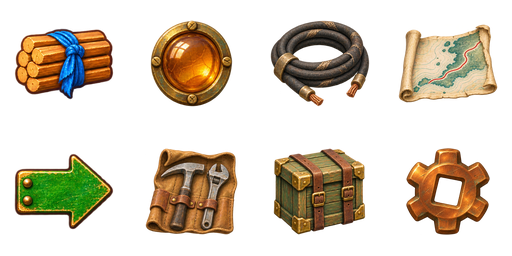
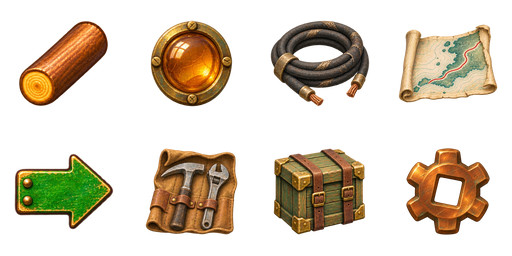
Award Happiness for decorating and simplify Relic Rush chips

Changed region(s): [[0.0312, 0.0625, 0.2188, 0.4375]]

diff --git a/tools/relic_quest_art.py b/tools/relic_quest_art.py
@@ -20,12 +20,15 @@ CROPS = [
 ]
 
 
-def sprites(rewards):
+def sprites(rewards, shared):
     source = Image.open(SOURCE)
     if source.mode != 'RGBA' or source.size != (1774, 887):
         raise ValueError('Expected the authored 1774×887 RGBA source')
     for key, crop in zip(KEYS, CROPS):
-        if key in rewards:
+        if key in shared:
+            with Image.open(ROOT / shared[key]) as artwork:
+                sprite = artwork.copy()
+        elif key in rewards:
             reward = rewards[key]
             with Image.open(ROOT / reward['source']) as source_atlas:
                 sprite = source_atlas.crop(reward['crop'])
@@ -39,17 +42,19 @@ def sprites(rewards):
                            min(sprite.width, right + 4), min(sprite.height, bottom + 4)))
 
 
-def atlas(rewards):
+def atlas(rewards, shared):
     out = Image.new('RGBA', (512, 256))
-    for index, sprite in enumerate(sprites(rewards)):
+    for index, sprite in enumerate(sprites(rewards, shared)):
         sprite.thumbnail((100, 87), Image.Resampling.LANCZOS)
         out.paste(sprite, (index % 4 * 128 + (128 - sprite.width) // 2,
                            index // 4 * 128 + (128 - sprite.height) // 2))
     return out
 
 
-def finds(rewards):
-    for key, sprite in zip(KEYS, sprites(rewards)):
+def finds(rewards, shared):
+    for key, sprite in zip(KEYS, sprites(rewards, shared)):
+        if key in shared:
+            continue
         sprite.thumbnail((FIND_PAINT, FIND_PAINT), Image.Resampling.LANCZOS)
         out = Image.new('RGBA', (FIND_SIZE, FIND_SIZE))
         out.paste(sprite, ((FIND_SIZE - sprite.width) // 2, (FIND_SIZE - sprite.height) // 2))
@@ -81,7 +86,8 @@ def main():
     manifest = json.loads((ROOT / 'art/board-states/manifest.json').read_text())
     quest = manifest['quest_objects']
     rewards = {'gear': quest['gear_reward'], **quest['reward_sources']}
-    outputs = [(OUTPUT, atlas(rewards)), *finds(rewards)]
+    shared = quest['shared_rewards']
+    outputs = [(OUTPUT, atlas(rewards, shared)), *finds(rewards, shared)]
     for reward in quest['separate_rewards'].values():
         outputs.extend(register_sprites(reward['source'], [reward], reward['canvas'], reward['paint_size']))
     pieces = quest['story_pieces']

diff --git a/games/relic-rush/tools/check_art_catalogue.py b/games/relic-rush/tools/check_art_catalogue.py
@@ -16,10 +16,13 @@ for field, key in [("tools", "tools"), ("states", "tool_states")]:
 actual = sorted(str(p.relative_to(ROOT)) for p in (ROOT / "data").rglob("*") if p.is_file())
 assert actual == manifest["runtime_inventory"], "Runtime inventory changed: update manifest AND asset catalogue"
 resources = manifest["resource_pieces"]
+new_pieces = resources["timber_emerald"]
 declaration = re.search(r"A\.resource_pieces = \{([^}]+)\}", art).group(1)
-assert re.findall(r'"([^"]+)"', declaration) == list(resources["slots"])
-assert all((ROOT / resources[key]).is_file() for key in ("source", "prompt"))
-for name in resources["slots"]:
+pieces = [*resources["slots"], *new_pieces["slots"]]
+assert re.findall(r'"([^"]+)"', declaration) == pieces
+for atlas in (resources, new_pieces):
+    assert all((ROOT / atlas[key]).is_file() for key in ("source", "prompt"))
+for name in pieces:
     path = f"data/resource-pieces/{name}.png"
     assert path in actual and f"`{name}`" in doc
 for name, unlock in manifest["resource_unlocks"].items():
@@ -29,7 +32,7 @@ declaration = re.search(r"A\.resource_upgrades = \{([^}]+)\}", art).group(1)
 upgrades = {quoted or bare: "data/" + path for quoted, bare, path in
             re.findall(r'(?:\["([^"]+)"\]|(\w+))\s*=\s*"([^"]+)"', declaration)}
 assert upgrades == {name: item["runtime"] for name, item in manifest["resource_unlocks"].items()
-                    if name not in resources["slots"]}, "Runtime upgrades need catalogue coverage"
+                    if name not in pieces}, "Runtime upgrades need catalogue coverage"
 assert set(manifest["tool_unlocks"]) <= set(manifest["tools"])
 match3 = (ROOT.parent.parent / "engine/match3.lua").read_text()
 special_line = re.search(r"M\.NORMAL[^\n]+", match3).group()
@@ -170,6 +173,8 @@ declaration = re.search(r"A\.quest_objects = \{([^}]+)\}", art).group(1)
 assert re.findall(r'"([^"]+)"', declaration) == quest["slots"]
 for key in quest["slots"]:
     assert "`" + key + "`" in doc
+    path = quest["shared_rewards"].get(key, f"data/finds/{key}.png")
+    assert path in actual
 for key in ["source", "prompt", "registration"]:
     assert (ROOT / quest[key]).is_file()
 assert all((ROOT / quest["gear_reward"][key]).is_file() for key in ("source", "prompt"))

diff --git a/games/relic-rush/tools/prepare_resource_pieces.py b/games/relic-rush/tools/prepare_resource_pieces.py
@@ -9,16 +9,14 @@ ROOT = Path(__file__).resolve().parents[1]
 SPEC = json.loads((ROOT / 'art/board-states/manifest.json').read_text())['resource_pieces']
 
 
-def main():
-    parser = argparse.ArgumentParser(description=__doc__)
-    parser.add_argument('--check', action='store_true')
-    args = parser.parse_args()
-    atlas = Image.open(ROOT / SPEC['source'])
+def register(spec, check):
+    atlas = Image.open(ROOT / spec['source'])
     assert atlas.mode == 'RGBA'
-    cols, rows = SPEC['grid']
+    cols, rows = spec['grid']
     width, height = atlas.size
-    size, extent, pad = (SPEC[key] for key in ('size', 'extent', 'padding'))
-    for name, slot in SPEC['slots'].items():
+    pad = SPEC['padding']
+    for name, slot in spec['slots'].items():
+        size, extent = spec.get('resize', {}).get(name, (SPEC['size'], SPEC['extent']))
         row, col = divmod(slot - 1, cols)
         tile = atlas.crop((col*width//cols, row*height//rows, (col+1)*width//cols, (row+1)*height//rows))
         transparent, opaque = tile.getchannel('A').getextrema()
@@ -30,11 +28,19 @@ def main():
         canvas = Image.new('RGBA', (size, size))
         canvas.paste(sprite, ((size-sprite.width)//2, (size-sprite.height)//2))
         target = ROOT / 'data' / 'resource-pieces' / f'{name}.png'
-        if args.check:
+        if check:
             assert Image.open(target).tobytes() == canvas.tobytes(), f'Outdated sprite: {target.name}'
         else:
             target.parent.mkdir(parents=True, exist_ok=True)
             canvas.save(target, optimize=True)
+
+
+def main():
+    parser = argparse.ArgumentParser(description=__doc__)
+    parser.add_argument('--check', action='store_true')
+    args = parser.parse_args()
+    for spec in (SPEC, SPEC['timber_emerald']):
+        register(spec, args.check)
 
 
 if __name__ == '__main__':

diff --git a/games/relic-rush/docs/asset-catalogue.md b/games/relic-rush/docs/asset-catalogue.md
@@ -35,8 +35,12 @@ Built-in ImageGen painted the [3 × 3 source atlas](../art/board-refresh/source.
 with seven expedition pieces and both cell faces. The [prompt](../art/board-refresh/prompt.txt)
 and [hex layout](../art/board-refresh/hex-template.png) record the generation inputs.
 The [manifest](../art/board-states/manifest.json) records the slot order, crop and
-registration. Each resource is trimmed with a four-pixel margin, fit inside 114 px
-and centred on a transparent 128 px square. Runtime sprites live in
+registration. Resources are trimmed with a four-pixel margin and centred on a
+transparent square. The [timber and emerald atlas](../art/resource-pieces/timber-emerald.png)
+was edited together in built-in ImageGen. The [edit prompt](../art/resource-pieces/timber-emerald.prompt.txt)
+records both slots. The emerald fits inside 114 px on a 128 px canvas. Timber
+fits inside 285 px on a 320 px canvas so the board, wallet and reward can use
+the same texture. Runtime sprites live in
 `data/resource-pieces/`. Selected, hinted and falling pieces reuse the same
 authored sprite with existing motion and separate indicators. Specials use
 their own authored art. The original scenario sheet is still the source of
@@ -46,8 +50,8 @@ the other story pieces below, alongside the trail arrow from the outlined atlas.
 | --- | --- | --- |
 | `coin` | Round gold coin engraved with an eight-ray sun, 4 Gold | Gold |
 | `berries` | Red berries, 1 Provisions | Provisions |
-| `plantains` | Green plantains, 1 Provisions | Board only |
-| `timber` | Blue-tied timber, 2 Supplies | Supplies |
+| `emerald` | Square-cut green gem, 1 Provisions | Board only |
+| `timber` | One unwrapped log, 2 Supplies | Supplies and the Camp Timber award |
 | `stone` | Pale violet-grey quarry stone, 3 Supplies | Board only |
 | `water` | Teal water bucket, 3 Provisions. Replaces timber from board 5 after the Well is restored. | Board and guide |
 | `rations` | Orange ration jar, 4 Provisions in the Market slot from board 10 | Board and guide |
@@ -119,10 +123,10 @@ the weathered bronze reward. The new board gear uses the same open square bore. 
 [prompt](../art/quest-objects/shutter-gear-states.prompt.txt) and manifest
 record the source and crops.
 
-Run `python3 tools/relic_quest_art.py` to register the eight quest props
-in `data/quest-objects.png` for the scenario index and in individual
-`data/finds/<slot>.png` files for the item cards. Card props fit within
-256 px on a 320×320 canvas. Board 8 uses the separately registered `broken-cable`
+Run `python3 tools/relic_quest_art.py` after the resource registration to build
+the scenario index in `data/quest-objects.png` and the item card props in
+`data/finds/`. Camp Timber uses `data/resource-pieces/timber.png` directly.
+The other card props fit within 256 px on a 320×320 canvas. Board 8 uses the separately registered `broken-cable`
 card. The [broken cable sheet](../art/quest-objects/broken-cable-states.png) and
 [prompt](../art/quest-objects/broken-cable-states.prompt.txt) record that reward.
 On the new expedition sheet, the intact relay cable is coiled with two plugs.
@@ -143,9 +147,9 @@ sprites. The first clear recovers the story item.
 | Purple | 3, 8 | Coiled relay cable, snapped cable |
 | Orange | 10 | Bronze shutter gear |
 
-Board 1 uses the ordinary blue-tied timber chip. Most story sprites come
+Board 1 uses the ordinary timber chip. Most story sprites come
 from the [expedition atlas](../art/resource-pieces/scenario-atlas.png). The
-trail arrow chip plus the marker and timber recovery cards use the
+trail arrow chip and marker recovery card use the
 [outlined source sheet](../art/resource-pieces/outlined-atlas.png).
 The manifest records each crop, the boards it appears on and its colour slot.
 Run `python3 tools/relic_quest_art.py` to register the individual

diff --git a/games/relic-rush/README.md b/games/relic-rush/README.md
@@ -89,7 +89,7 @@ identifiers `com.corepunch.relicrush.stars` and `com.corepunch.relicrush.level_0
 shows sample rivals for captures; `--dialog leaderboard` and `--victory --dialog level-leaderboard`
 open the dialogs.
 
-Board 1 uses five regular kinds, including blue-tied timber that earns Supplies.
+Board 1 uses five regular kinds, including the timber log that earns Supplies.
 Boards 2–10 and 13 show a story piece in place of one matching colour.
 Boards 2, 5, 8, 10 and 13 use four regular kinds plus the story piece. Boards
 3, 4, 6, 7 and 9 use five regular kinds plus the story piece.
@@ -169,10 +169,11 @@ In Chapter 1, complete each board’s match-3 goals to advance the quest. In the
 first-clear dialogue, the crew finds timber for the camp, the lamp lens, the tide
 chart and other objects that take them towards the quay.
 
-The island shows the active chapter, quest, next task and decoration progress. First clears
-award earned resources and Discovery Stars, and unlock scheduled restorations. Each confirmed
-wonder adds four decoration points. Other purchases add one. Required upgrades meet the
-thresholds for the next quests. Moving a building leaves its points intact.
+The island shows the active chapter, quest, next task and Happiness. Each confirmed
+wonder adds four Happiness and each optional building or decoration adds one.
+Optional placements also add one Gold to every won expedition, up to ten Gold.
+The shop previews the Happiness gain and the results show the Gold bonus.
+Required restorations cover quest thresholds. Moving a building preserves its Happiness.
 
 First-clear dialogue leads into Results. Board 30 reveals the signal plate at the cleared site, then shows Ines answering from the safe landing with the three flashes first seen on board 3. The tide-room choice follows Claim, and each
 wonder has a separate scene after confirmed placement. Replays bank matched resources.
@@ -200,8 +201,8 @@ On a 390 × 844 iPhone (safe-area insets 47 top, 34 bottom) the island and the j
 5. Confirm construction, pan across the growing settlement and open neighboring land when eligible.
 6. Read the discovery, then set out again. Thirty stages support ten restored buildings; level 30 delivers the final hook.
 
-Coins start at 4 Gold each. Red berries and green plantains pay 1 Provisions.
-Blue-tied timber and dressed stone pay 2 and 3 Supplies. Each confirmed
+Coins start at 4 Gold each. Red berries and emeralds pay 1 Provisions.
+Timber and dressed stone pay 2 and 3 Supplies. Each confirmed
 restoration unlocks a higher-yield chip or a tool on eligible expeditions.
 Authored story pieces keep their slots. The result shows what the next
 restoration unlocks or what is still needed to afford it. Replays earn

diff --git a/games/relic-rush/docs/story.md b/games/relic-rush/docs/story.md
@@ -1,6 +1,6 @@
 # Relic Rush: A Light Below
 
-**Status:** Fresh campaign plan and playable first chapter. Chapters 2–3 have provisional bridge dialogue so existing level slots remain coherent; they need a full dialogue pass and cold read. The town tracks quests and decoration points. Chapter 1 uses the existing character portraits and island views.
+**Status:** Fresh campaign plan and playable first chapter. Chapters 2–3 have provisional bridge dialogue so existing level slots remain coherent; they need a full dialogue pass and cold read. The town tracks quests and Happiness. Chapter 1 uses the existing character portraits and island views.
 
 **Play fantasy:** Rebuild an expedition base and follow a light answering from beneath the island. The feeling is curious, warm-hearted pulp adventure: danger gives friends a reason to act for one another.
 
@@ -71,7 +71,7 @@ The wrong theory is Elena's automatic reflection at 3. The changed rhythm breaks
 
 ## Delivery and choices
 
-Board 1 uses regular blue-tied timber, which earns Supplies. Boards 2–10 and 13 show a story piece in place of one resource kind. The first clear awards the corresponding quest object. The characters then talk about the find in the first-clear exchange. The tide-room reveal plays after Claim and leads into a choice of who answers the signal. Confirmed placements play their own scene. Replays bank matched resources and the capped move bonus. Clearing all blue plaques opens the site for the first-clear scene. On reload, the next unread scene or selected reply resumes, while completed boards and placed buildings stay credited. Older saves receive a recap at their current progress.
+Board 1 uses the regular timber log, which earns Supplies. Boards 2–10 and 13 show a story piece in place of one resource kind. The first clear awards the corresponding quest object. The characters then talk about the find in the first-clear exchange. The tide-room reveal plays after Claim and leads into a choice of who answers the signal. Confirmed placements play their own scene. Replays bank matched resources and the capped move bonus. Clearing all blue plaques opens the site for the first-clear scene. On reload, the next unread scene or selected reply resumes, while completed boards and placed buildings stay credited. Older saves receive a recap at their current progress.
 
 ## Chains and blue plaques
 

diff --git a/games/relic-rush/docs/resource-expedition.md b/games/relic-rush/docs/resource-expedition.md
@@ -67,15 +67,15 @@ visible cost.
 | --- | --- | ---: |
 | Gold sun coin | Gold | 4 |
 | Red berries | Provisions | 1 |
-| Green plantains | Provisions | 1 |
-| Blue-wrapped timber | Supplies | 2 |
+| Emerald | Provisions | 1 |
+| Timber log | Supplies | 2 |
 | Purple dressed stone | Supplies | 3 |
 
 Buy or restore a building using the family totals. Timber and stone are
-separate match kinds within Supplies, just as berries and plantains are
+separate match kinds within Supplies, just as berries and emeralds are
 separate kinds within Provisions. Each piece needs a recognizable shape at phone
-size. The shared town and board wallet uses the sun coin, berries and blue-tied
-timber. Pending earnings are visible on the board and are banked on a win.
+size. The shared town and board wallet uses the sun coin, berries and timber.
+Pending earnings are visible on the board and are banked on a win.
 
 Five types is the normal palette. A 4+1 recovery has four regular kinds and a
 story kind in the fifth slot. A 5+1 recovery has six total kinds and should
@@ -134,6 +134,10 @@ When a restoration costs more than is in the wallet, replay a cleared board
 with the missing resource and bank the earnings. Optional purchases reserve
 the price of any earned restoration. Confirmed placement debits the price
 once and Cancel returns the preview. Stars remain access requirements.
+Confirmed restorations add four Happiness. Each confirmed optional building
+or decoration adds one Happiness and earns one bonus Gold per win, capped at
+ten Gold. Moving items preserves the score and bonus. Both derive from saved
+placements.
 
 A save version identifies the Provisions and Supplies slots. Existing Gold,
 stars, placements, lives, unlocks, claimed levels and story checkpoints are

diff --git a/games/relic-rush/docs/board-progression.md b/games/relic-rush/docs/board-progression.md
@@ -8,7 +8,7 @@ it is out of the way. Boards 2–10 and 13 show a story piece in one colour slot
 
 | Boards | Palette |
 | --- | --- |
-| 1 | Five regular kinds, including blue-tied timber |
+| 1 | Five regular kinds, including emerald and the timber log |
 | 2, 5, 8, 10, 13 | Four regular kinds and one story piece |
 | 3, 4, 6, 7, 9 | Five regular kinds and one story piece |
 
